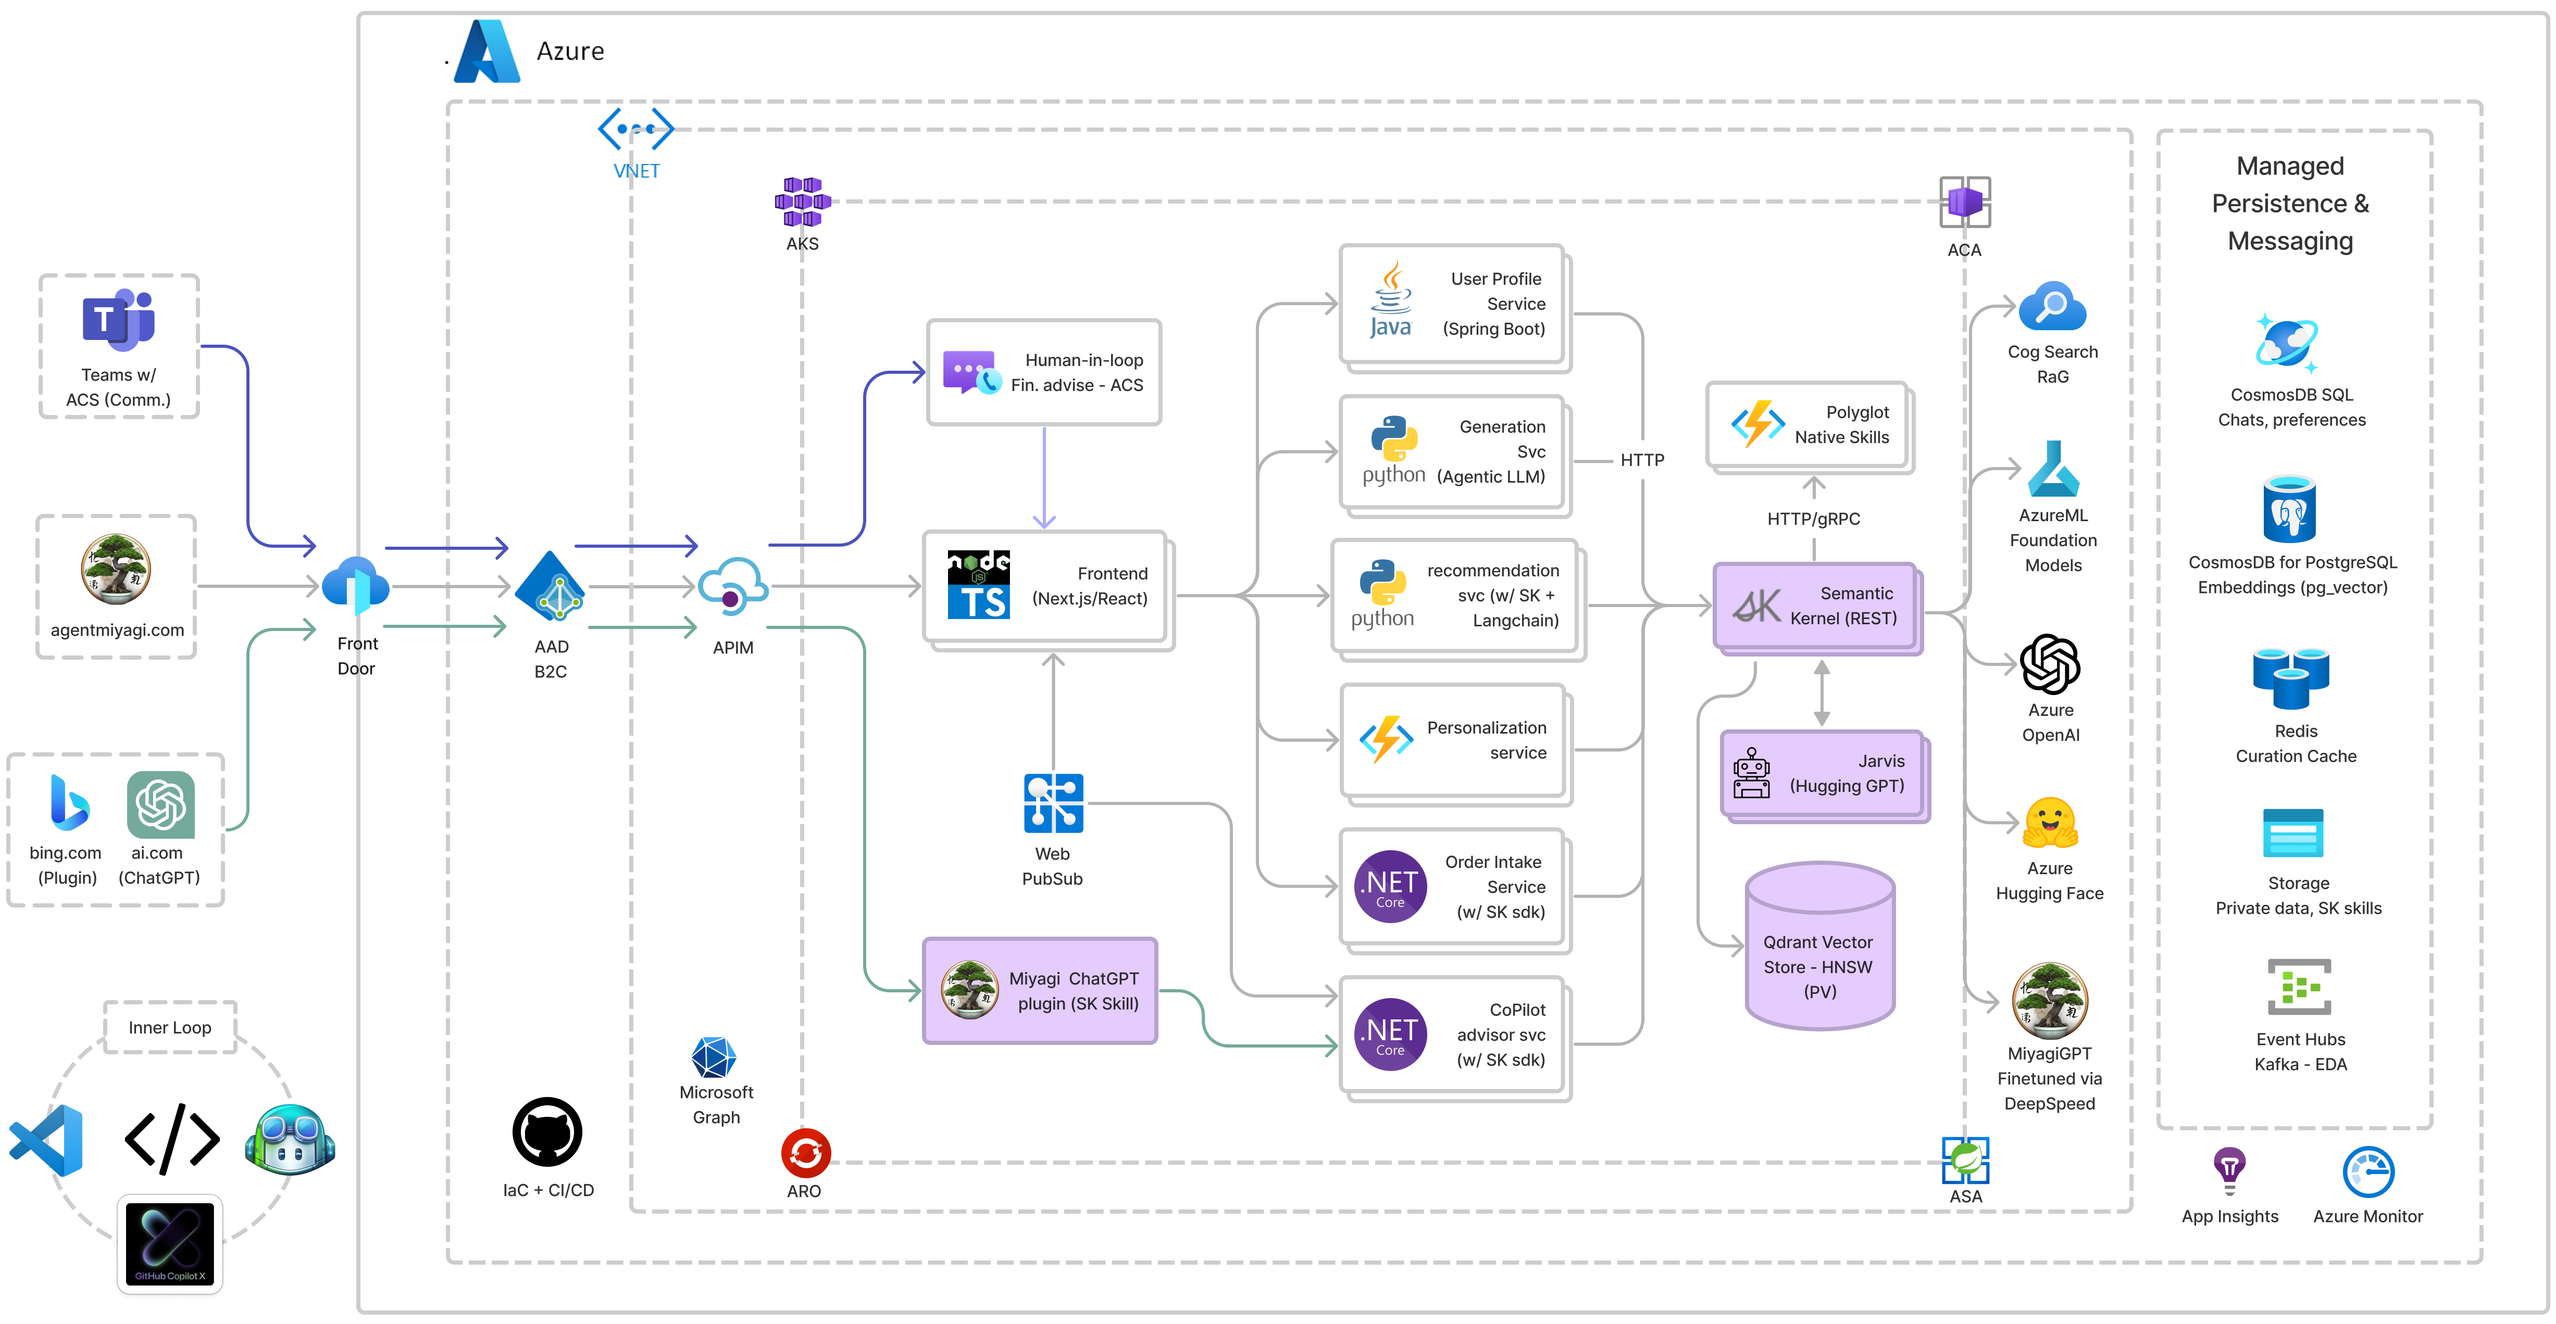
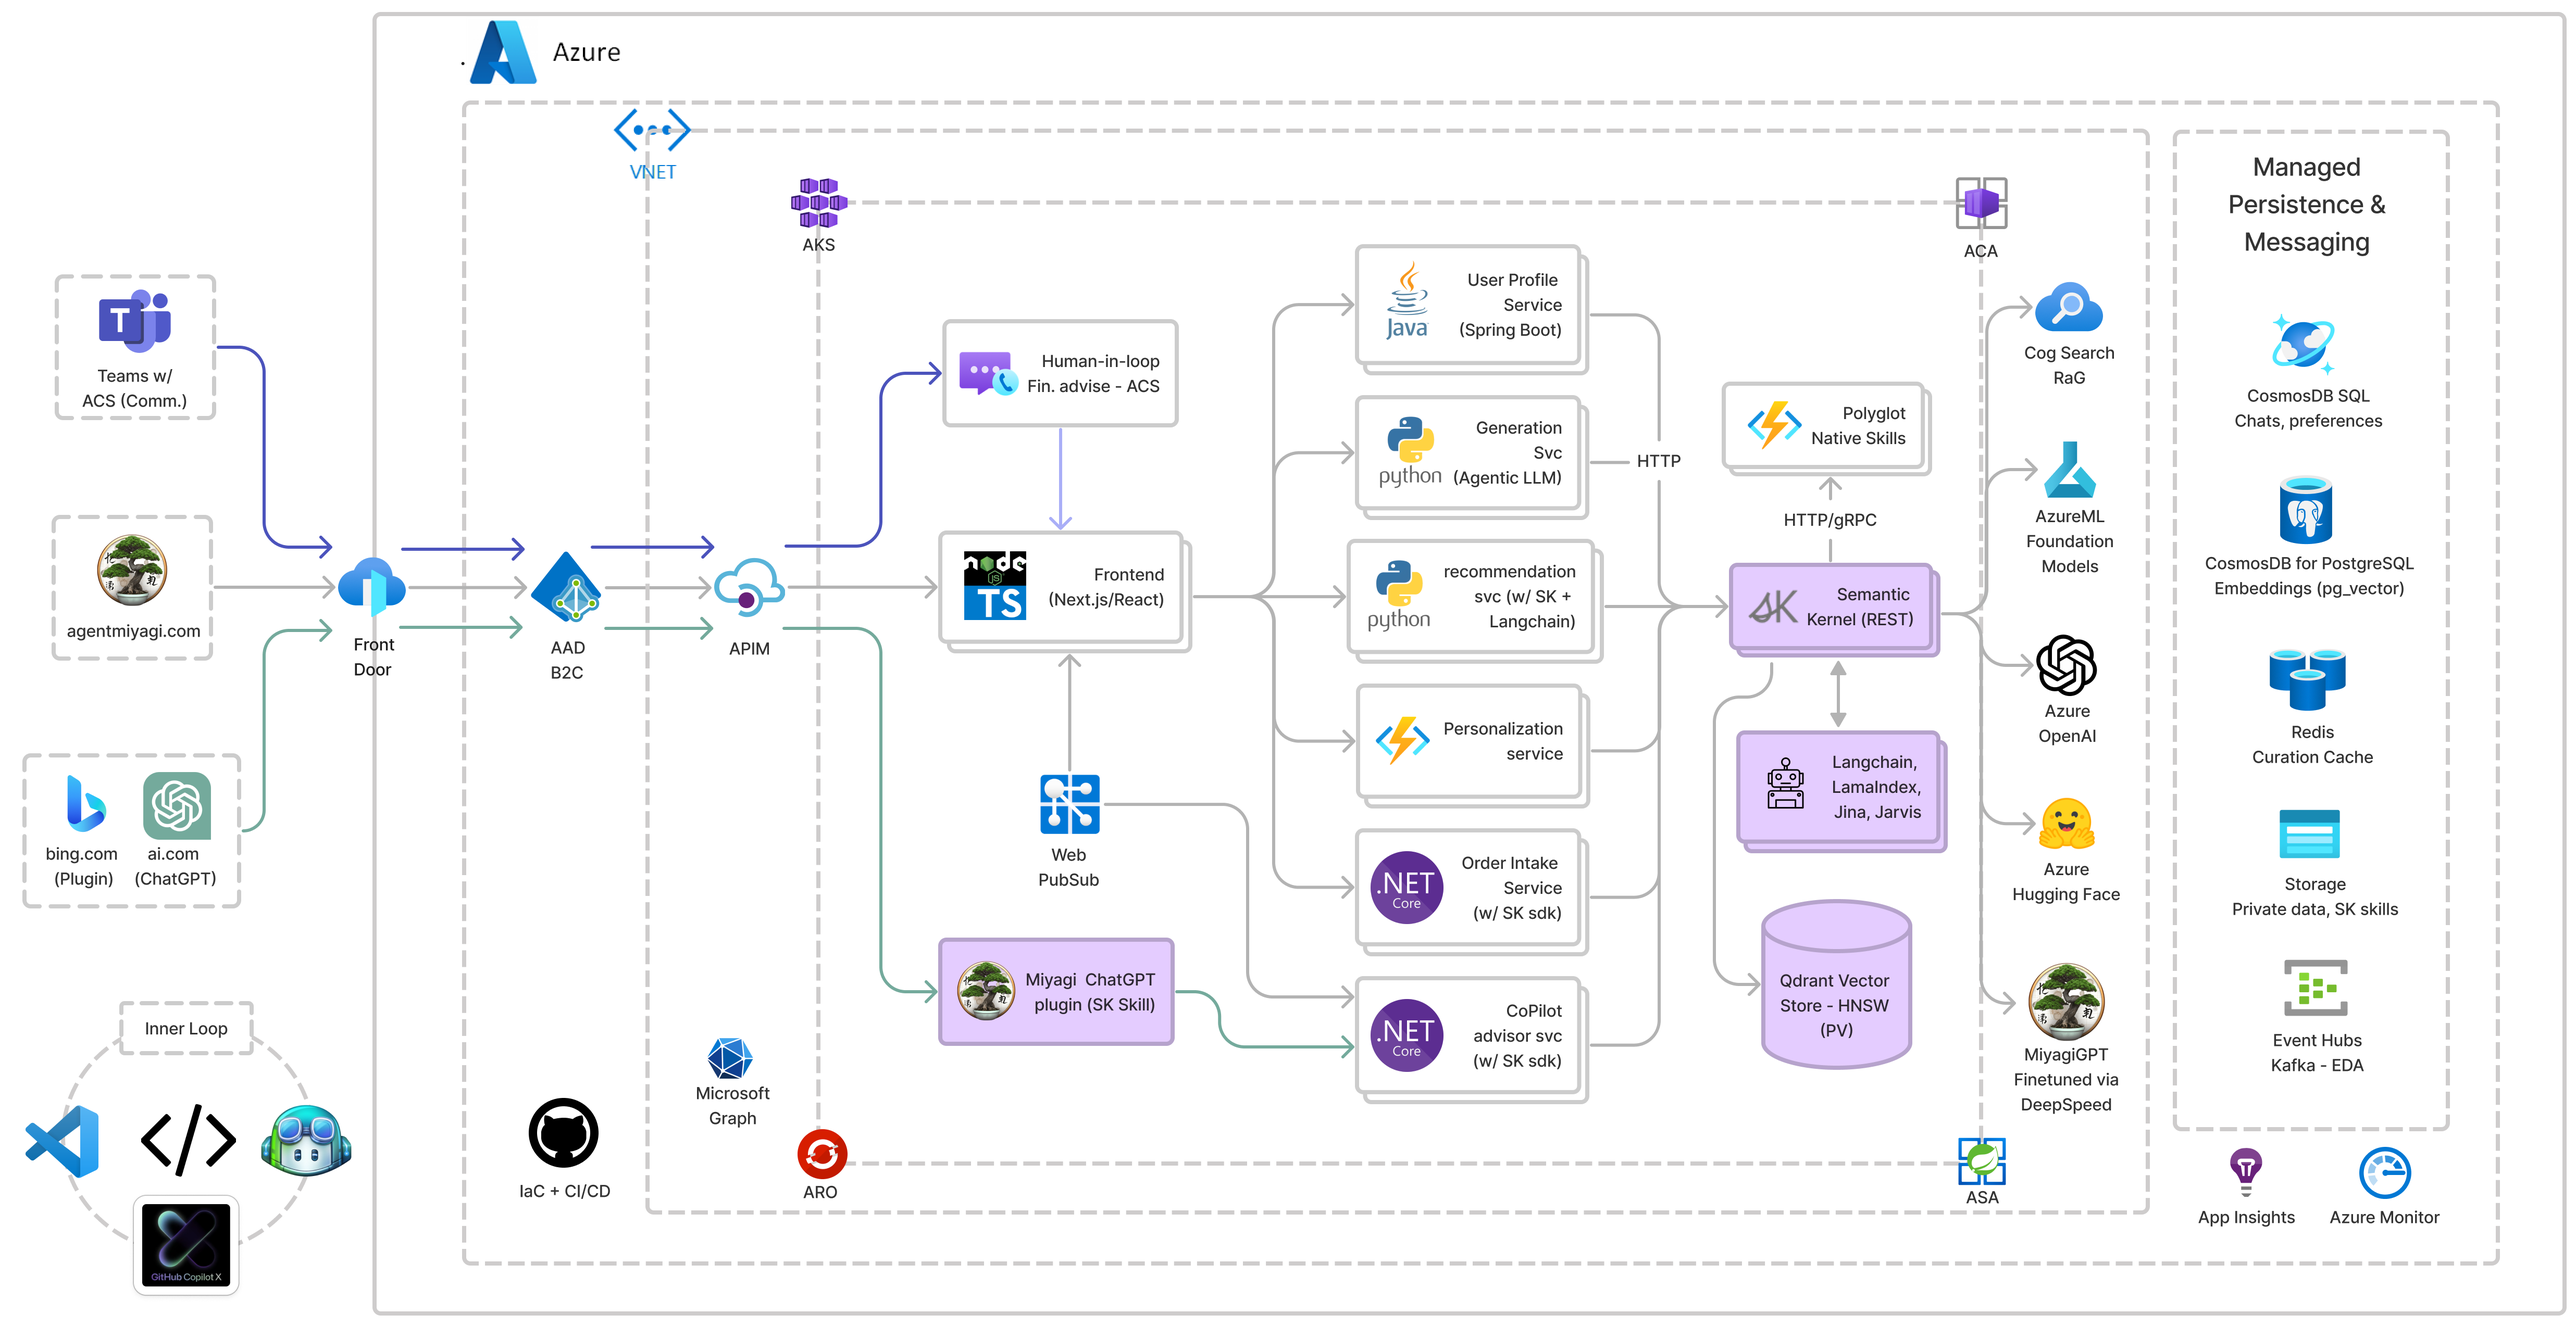
update readme and arch diagrams

diff --git a/README.md b/README.md
@@ -88,6 +88,8 @@ This will be similar to [reddog](https://reddog-solutions.com) product [image ge
 - [Azure HuggingFace Inference Endpoints](https://azure.microsoft.com/en-us/solutions/hugging-face-on-azure)
 - [Jarvis](https://github.com/microsoft/JARVIS)
 - [LangChain](https://github.com/hwchase17/langchain#readme)
+- [Jina](https://github.com/jina-ai/jina)
+- [Azure AI](https://azure.microsoft.com/en-us/solutions/ai/#overview)
 - [Foundation Models from CogServices](https://azure.microsoft.com/en-us/blog/announcing-a-renaissance-in-computer-vision-ai-with-microsofts-florence-foundation-model/)
 - [Qdrant](https://qdrant.tech/solutions/)
 - [Microsoft DeepSpeed Chat](https://github.com/microsoft/DeepSpeedExamples/tree/master/applications/DeepSpeed-Chat)
